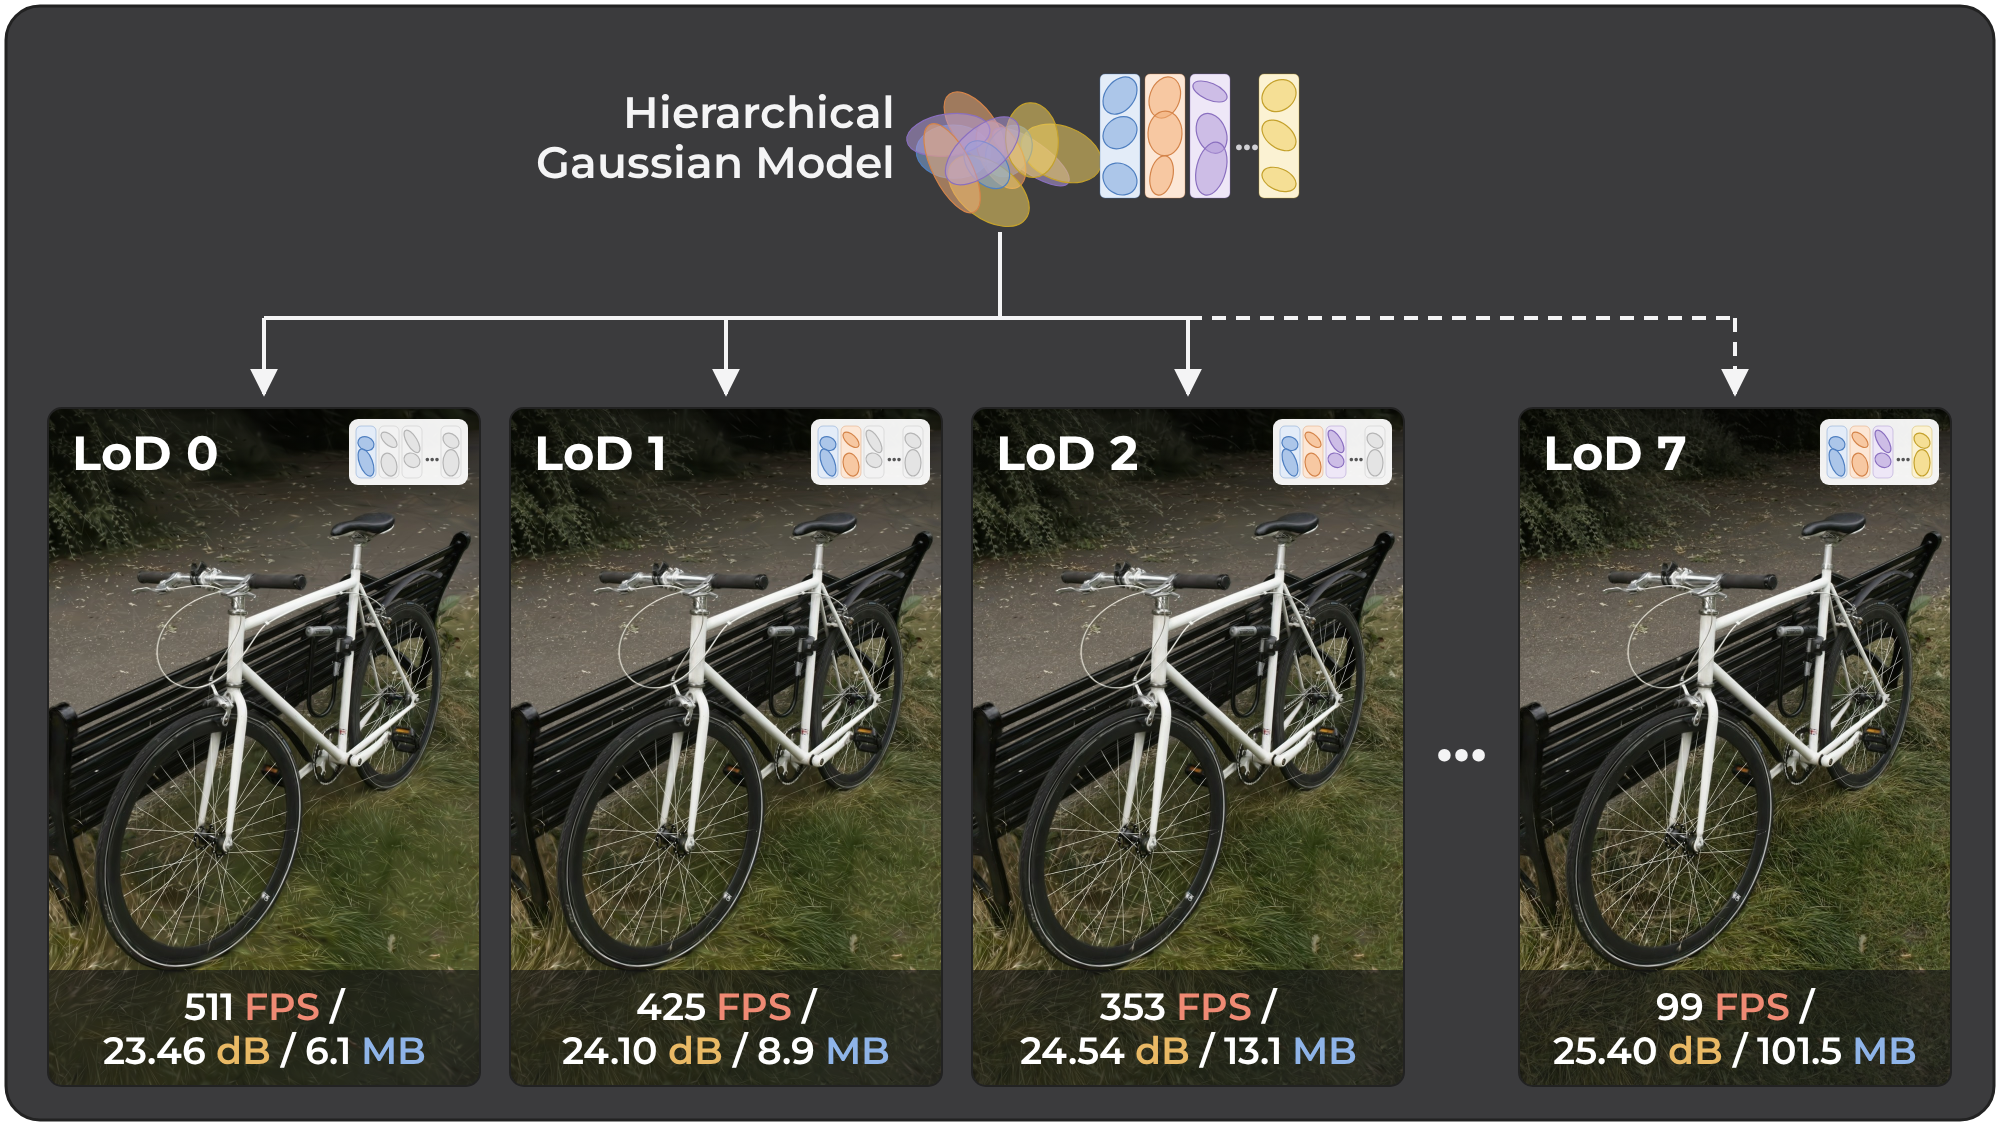
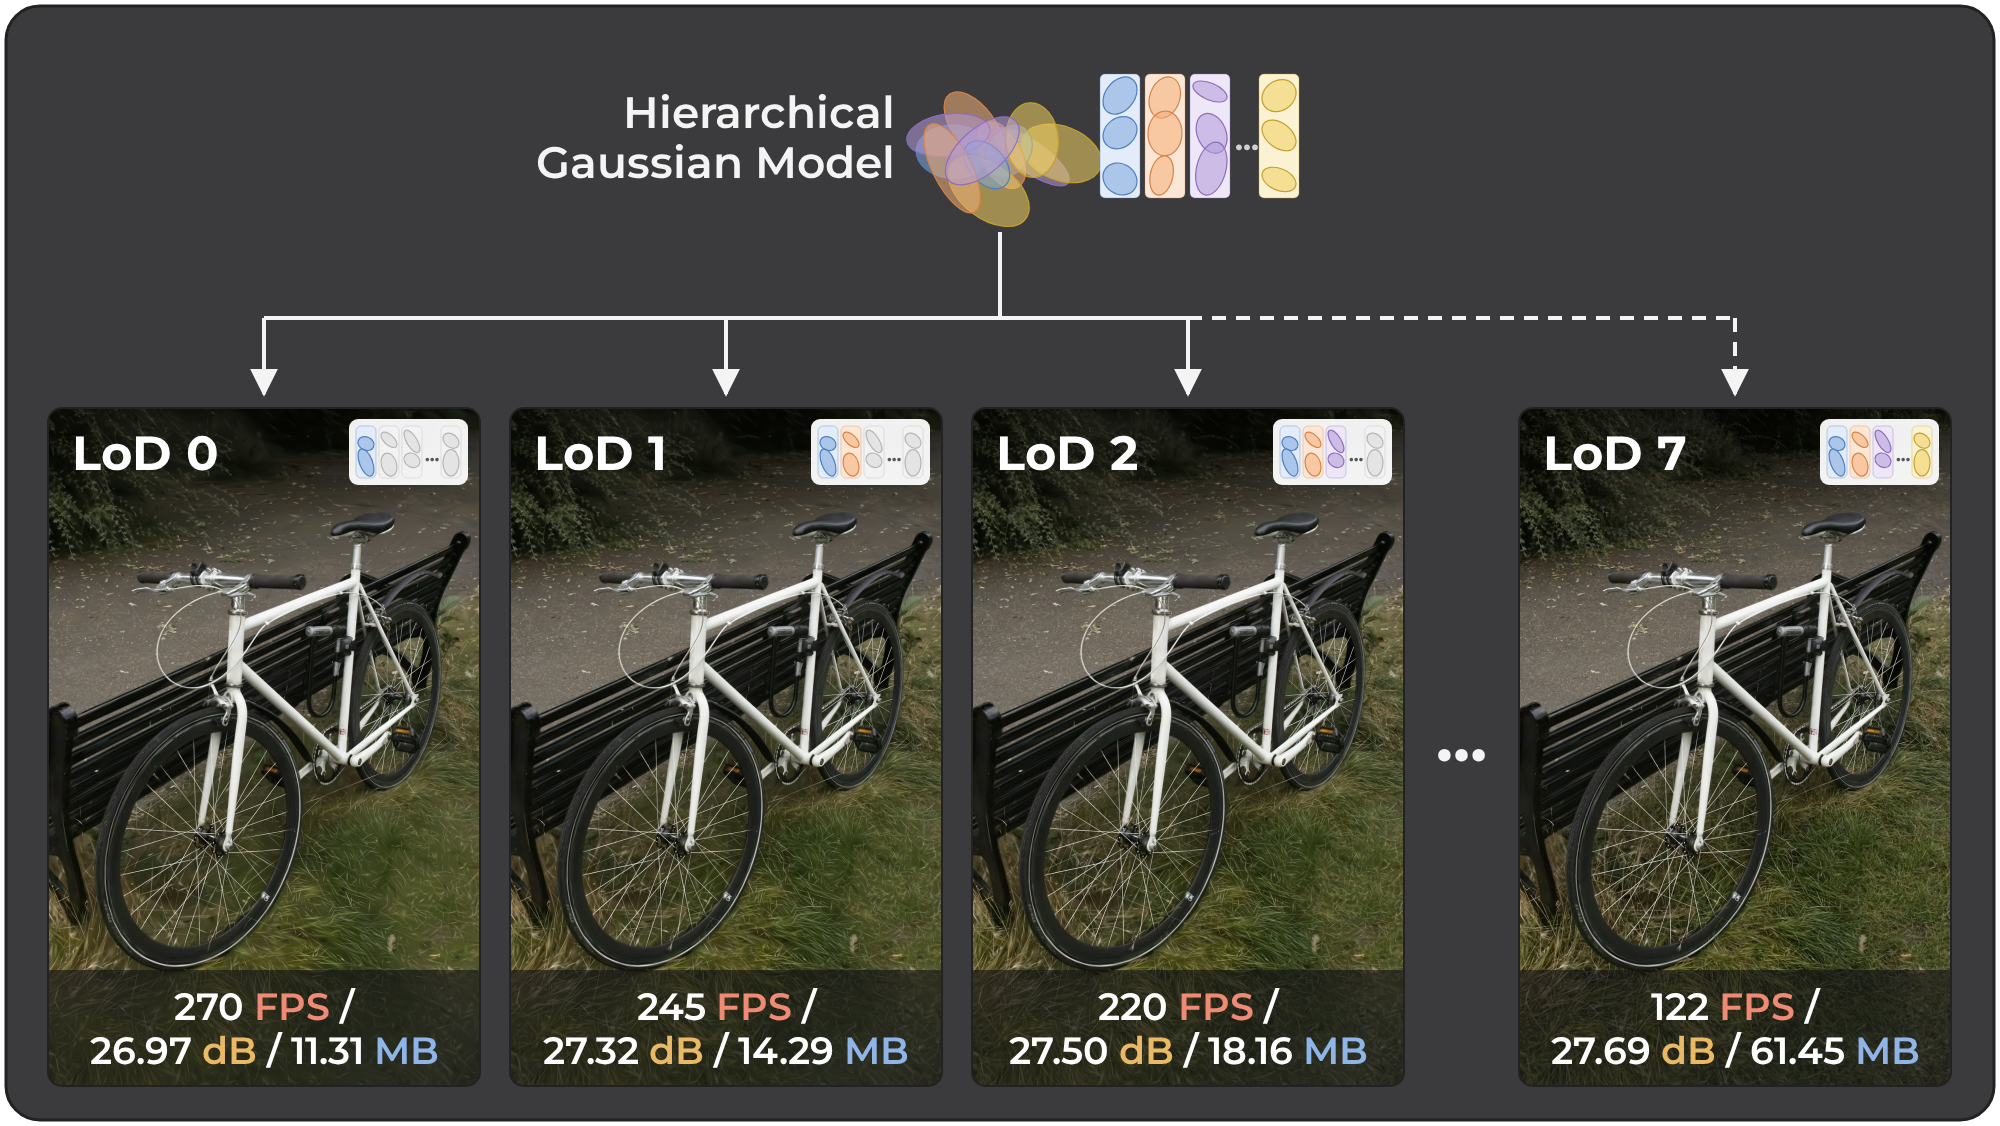
README teaser: the paper's per-level numbers (3DGS-MCMC, Mip-NeRF 360)

diff --git a/README.md b/README.md
@@ -21,6 +21,8 @@
 
 ![One hierarchical GoDe model of bicycle decoded at levels 0, 1, 2 and 7](assets/teaser.png)
 
+<p align="center"><sub>Numbers from the paper: GoDe with 3DGS-MCMC, Mip-NeRF 360 averages per level of detail (FPS on an NVIDIA A40).</sub></p>
+
 GoDe turns a trained splat-based radiance field into **one progressive, compressed file**: any prefix of it decodes
 to a complete model, from a few MB up to full quality. The same code runs on five backbones.
 
